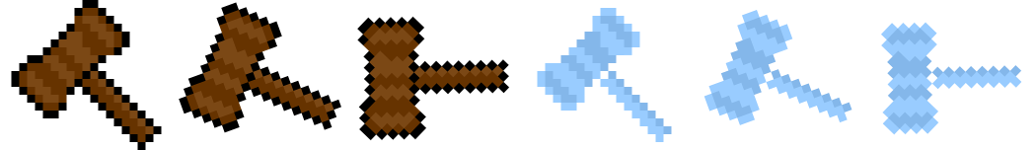
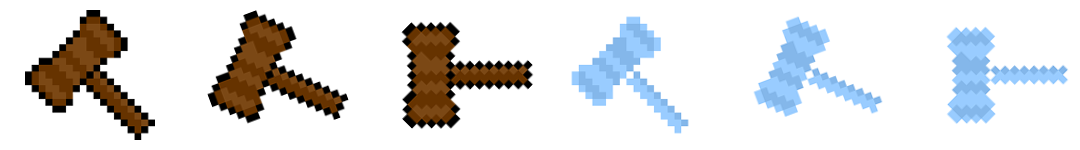
add player energy and set playerDamage function

Changed region(s): [[0.0, 0.0, 0.6486, 1.0], [0.6795, 0.08, 0.9884, 0.9067], [0.5869, 0.3467, 0.6178, 0.4267]]

diff --git a/js/states/GameState.js b/js/states/GameState.js
@@ -16,6 +16,18 @@ SaveTheDate.GameState = {
     this.score = 0;
     var style = { font: '60px "Press Start 2P"', fill: "#000" };
     this.scoreText = this.game.add.text(50, 50, "Score:" + this.score, style);
+    this.energyText = this.game.add.text(50, 150, "Energy:", style);
+
+    // set player energy
+    this.energy = 3;
+    this.batteries = this.add.group();
+    this.battery1 = new SaveTheDate.Battery(this.game, 485, 175, 1);
+    this.battery2 = new SaveTheDate.Battery(this.game, 560, 175, 2);
+    this.battery3 = new SaveTheDate.Battery(this.game, 635, 175, 3);
+
+    this.batteries.add(this.battery1);
+    this.batteries.add(this.battery2);
+    this.batteries.add(this.battery3);
 
     //player
     this.player = this.add.sprite(this.game.world.width * .15, this.game.world.centerY, 'sarah');
@@ -24,6 +36,8 @@ SaveTheDate.GameState = {
     this.player.scale.y = 0.5;
     this.game.physics.arcade.enable(this.player);
     this.player.body.collideWorldBounds = true;
+
+    this.invincible = false;
 
     // this.createEnemy('uhaul');
     // this.game.time.events.loop(20000, this.createEnemy('uhaul'));
@@ -77,7 +91,9 @@ SaveTheDate.GameState = {
     }
     if (this.game.input.keyboard.isDown(Phaser.Keyboard.LEFT)) { this.player.body.velocity.x = -1 * this.PLAYER_SPEED }
     if (this.game.input.keyboard.isDown(Phaser.Keyboard.RIGHT)) { this.player.body.velocity.x = 1 * this.PLAYER_SPEED }
-    if (this.game.input.keyboard.isDown(Phaser.Keyboard.UP)) { this.player.body.velocity.y = -1 * this.PLAYER_SPEED }
+    if (this.game.input.keyboard.isDown(Phaser.Keyboard.UP) && this.player.body.bottom > 410) {
+      this.player.body.velocity.y = -1 * this.PLAYER_SPEED
+    }
     if (this.game.input.keyboard.isDown(Phaser.Keyboard.DOWN)) { this.player.body.velocity.y = 1 * this.PLAYER_SPEED }
 
     // check for overlap between fireballs and enemies
@@ -87,6 +103,7 @@ SaveTheDate.GameState = {
     this.game.physics.arcade.overlap(this.player, this.hearts, this.collectHeart, null, this);
 
     // check for overlap between enemies and player
+    this.game.physics.arcade.overlap(this.player, this.enemies, this.damagePlayer, null, this);
 
   },
 
@@ -98,6 +115,29 @@ SaveTheDate.GameState = {
   damageEnemy: function(fireball, enemy) {
     enemy.damage(1);
     fireball.kill();
+  },
+
+  damagePlayer: function(player, enemy) {
+    let yDiff = Math.abs(player.body.center.y - enemy.body.center.y);
+    let xDiff = Math.abs(player.body.center.x - enemy.body.center.x);
+    if (!this.invincible && yDiff < 80 && xDiff < 80) {
+      if (this.energy === 3) {
+        this.battery3.kill();
+      } else if (this.energy === 2) {
+        this.battery2.kill();
+      } else if (this.energy === 1) {
+        this.battery1.kill();
+      }
+      this.energy -= 1;
+      this.invincible = true;
+      setTimeout(() => {
+        this.invincible = false;
+      }, 2000);
+      if (this.energy === 0){
+        // game over
+        console.log('game over!');
+      }
+    }
   },
 
   initFireballs: function() {

diff --git a/js/states/PreloadState.js b/js/states/PreloadState.js
@@ -20,9 +20,10 @@ SaveTheDate.PreloadState = {
     this.load.image('uhaul', 'assets/images/uhaul.png');
     this.load.image('enemyParticle', 'assets/images/enemyParticle.png');
     this.load.spritesheet('heart','assets/images/heart.png', 240, 224, 3, 0, 0);
+    this.load.spritesheet('battery','assets/images/battery.png', 50, 75, 3, 0, 0);
     this.load.spritesheet('box','assets/images/box.png', 150, 150, 6, 0, 0);
-    this.load.spritesheet('gavel','assets/images/gavel.png', 173, 150, 6, 0, 0);
-    this.load.spritesheet('tooth','assets/images/tooth.png', 141, 150, 6, 0, 0);
+    this.load.spritesheet('gavel','assets/images/gavel.png', 180, 150, 6, 0, 0);
+    this.load.spritesheet('tooth','assets/images/tooth.png', 150, 180, 6, 0, 0);
     this.load.spritesheet('fireball', 'assets/images/fireball.png', 40, 40, 4, 0, 0);
 
     this.load.audio('orchestra', ['assets/audio/JPEinstrumental.mp3', 'assets/audio/JPEinstrumental.ogg']);

diff --git a/js/prefabs/Battery.js b/js/prefabs/Battery.js
@@ -1,0 +1,20 @@
+var SaveTheDate = SaveTheDate || {};
+
+SaveTheDate.Battery = function(game, x, y, number) {
+  Phaser.Sprite.call(this, game, x, y, 'battery');
+
+  this.anchor.setTo(0.5);
+  // this.scale.x = 0.4;
+  // this.scale.y = 0.4;
+  this.animations.add('glow', [0,1,2,1], 1.1, true);
+  this.play('glow');
+  this.health = 1;
+};
+
+SaveTheDate.Battery.prototype = Object.create(Phaser.Sprite.prototype);
+SaveTheDate.Battery.prototype.constructor = SaveTheDate.Battery;
+
+SaveTheDate.Battery.prototype.damage = function(amount) {
+  Phaser.Sprite.prototype.damage.call(this, amount);
+  console.log('points increased!');
+};

diff --git a/index.html b/index.html
@@ -17,6 +17,7 @@
   <script src="js/prefabs/PlayerFireball.js"></script>
   <script src="js/prefabs/Enemy.js"></script>
   <script src="js/prefabs/Heart.js"></script>
+  <script src="js/prefabs/Battery.js"></script>
   <script src="js/states/GameState.js"></script>
   <script src="js/main.js"></script>
 </body>
